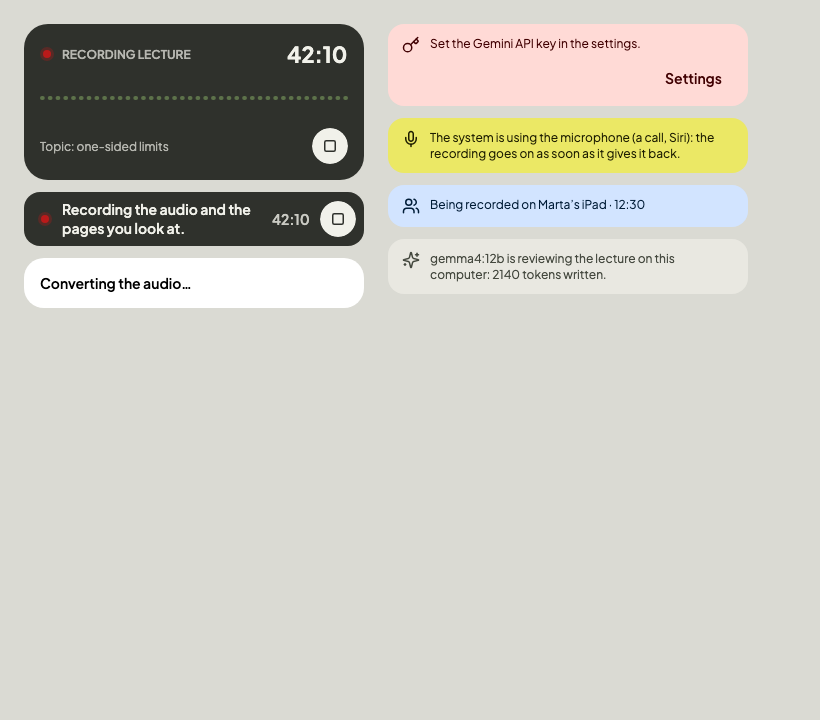
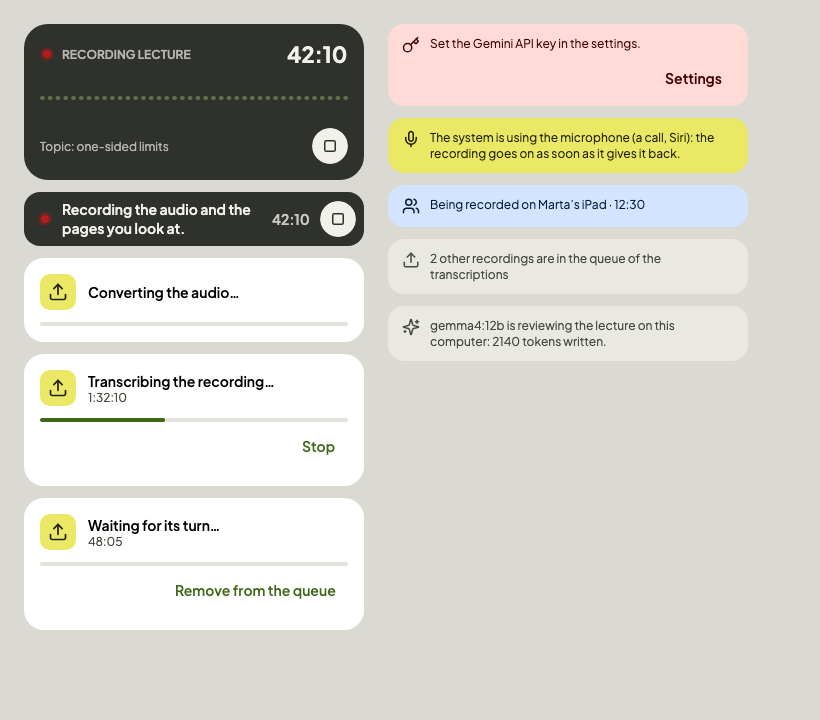
feat(lecture): the panel takes imports and recordings while lectures are transcribed

Changed region(s): [[0.0305, 0.3667, 0.4573, 0.8861], [0.4878, 0.4278, 0.8232, 0.4889], [0.4878, 0.3361, 0.8232, 0.3972]]

diff --git a/drawview-lecture-ui/src/commonMain/kotlin/io/github/valerioisufi/drawview/lecture/ui/LecturePanel.kt b/drawview-lecture-ui/src/commonMain/kotlin/io/github/valerioisufi/drawview/lecture/ui/LecturePanel.kt
@@ -235,20 +235,21 @@ private fun IdleSection(assistant: LectureAssistant, documentId: String, onStart
         LectureNotice(DrawViewIcons.Mic, stringResource(Res.string.lecture_unsupported), NoticeTone.Neutral)
         return
     }
-    val canStart = !assistant.isBusy
+    // A recording at a time; an import is always taken, and waits its turn to be transcribed
+    val canRecord = assistant.canRecord
     Text(
         stringResource(if (assistant.canGenerate) Res.string.lecture_idle_description else Res.string.lecture_record_only_description),
         style = MaterialTheme.typography.bodyMedium,
         color = MaterialTheme.colorScheme.onSurfaceVariant
     )
     if (assistant.canGenerate) PrivacyNote(privacyNote(assistant.settingsStore.settings))
-    Button(onClick = onStart, enabled = canStart, modifier = Modifier.fillMaxWidth().height(56.dp)) {
+    Button(onClick = onStart, enabled = canRecord, modifier = Modifier.fillMaxWidth().height(56.dp)) {
         Icon(DrawViewIcons.Mic, contentDescription = null, modifier = Modifier.size(22.dp))
         Spacer(Modifier.width(10.dp))
         Text(stringResource(Res.string.lecture_action_record), style = MaterialTheme.typography.titleMedium)
     }
     if (assistant.canImportAndExport) {
-        OutlineButton(onClick = onImport, enabled = canStart, modifier = Modifier.fillMaxWidth().height(48.dp)) {
+        OutlineButton(onClick = onImport, modifier = Modifier.fillMaxWidth().height(48.dp)) {
             Icon(DrawViewIcons.Upload, contentDescription = null, modifier = Modifier.size(18.dp))
             Spacer(Modifier.width(8.dp))
             Text(stringResource(Res.string.lecture_action_import))
@@ -593,7 +594,7 @@ private fun RecordingSection(
     onStart: () -> Unit,
     onImport: () -> Unit
 ) {
-    val canStart = !assistant.isBusy
+    val canRecord = assistant.canRecord
     when {
         // Being recorded, or transcribed, on another device
         lecture.status != LectureStatus.FINISHED && recorder?.lecture !== lecture && !assistant.isTranscribing(lecture) -> {
@@ -618,7 +619,7 @@ private fun RecordingSection(
             }
         }
 
-        lecture.status == LectureStatus.IMPORTING -> ImportCard(lecture)
+        lecture.status == LectureStatus.IMPORTING -> ImportCard(assistant, lecture)
 
         lecture.status == LectureStatus.RECORDING && recorder != null -> {
             val settings = assistant.settingsStore.settings
@@ -654,13 +655,13 @@ private fun RecordingSection(
         else -> {
             if (lecture.recordedElsewhere) AudioElsewhere(assistant, lecture)
             Row(horizontalArrangement = Arrangement.spacedBy(8.dp)) {
-                OutlineButton(onClick = onStart, enabled = canStart, modifier = Modifier.weight(1f), contentPadding = PaddingValues(horizontal = 12.dp)) {
+                OutlineButton(onClick = onStart, enabled = canRecord, modifier = Modifier.weight(1f), contentPadding = PaddingValues(horizontal = 12.dp)) {
                     Icon(DrawViewIcons.Mic, contentDescription = null, modifier = Modifier.size(18.dp))
                     Spacer(Modifier.width(8.dp))
                     Text(stringResource(Res.string.lecture_action_new_recording), maxLines = 1, overflow = TextOverflow.Ellipsis)
                 }
                 if (assistant.canImportAndExport) {
-                    OutlineButton(onClick = onImport, enabled = canStart, modifier = Modifier.weight(1f), contentPadding = PaddingValues(horizontal = 12.dp)) {
+                    OutlineButton(onClick = onImport, modifier = Modifier.weight(1f), contentPadding = PaddingValues(horizontal = 12.dp)) {
                         Icon(DrawViewIcons.Upload, contentDescription = null, modifier = Modifier.size(18.dp))
                         Spacer(Modifier.width(8.dp))
                         Text(stringResource(Res.string.lecture_action_import_short), maxLines = 1, overflow = TextOverflow.Ellipsis)
@@ -672,35 +673,64 @@ private fun RecordingSection(
     }
 }
 
-/** A recording imported from elsewhere: converted, transcribed, reviewed, with its progress. */
+/**
+ * A recording being imported or transcribed here: converted, waiting its turn, transcribed, reviewed,
+ * with its progress. While it waits or is transcribed it can be taken out of the queue.
+ */
 @Composable
-private fun ImportCard(lecture: Lecture) {
+private fun ImportCard(assistant: LectureAssistant, lecture: Lecture) {
+    val step = lecture.importStep
+    val waiting = step == ImportStep.WAITING
+    ImportCard(
+        title = stringResource(
+            when (step) {
+                ImportStep.TRANSCRIBING -> Res.string.lecture_import_transcribing
+                ImportStep.REVIEWING -> Res.string.lecture_status_finalizing
+                // For the recording going on here, or for the transcriptions asked before it
+                ImportStep.WAITING -> if (assistant.canRecord) Res.string.lecture_import_waiting else Res.string.lecture_import_waiting_recording
+                else -> Res.string.lecture_import_converting
+            }
+        ),
+        duration = lecture.elapsedMs.takeIf { it > 0 }?.let { formatLectureTime(it) },
+        // Waiting its turn: nothing moves, what was transcribed before a pause stays
+        progress = if (waiting) lecture.importProgress.coerceAtLeast(0f) else lecture.importProgress,
+        remove = when {
+            !assistant.isTranscribing(lecture) -> null
+            waiting -> stringResource(Res.string.lecture_import_remove)
+            step == ImportStep.TRANSCRIBING -> stringResource(Res.string.lecture_action_stop)
+            else -> null
+        },
+        onRemove = { assistant.cancelTranscription(lecture) }
+    )
+}
+
+/**
+ * The card of a recording being imported or transcribed: what is happening ([title]), how long the
+ * recording is ([duration]), the [progress] of the step (0..1, negative when unknown), and the
+ * action taking it out of the queue ([remove], `null`: none).
+ */
+@Composable
+internal fun ImportCard(title: String, duration: String?, progress: Float, remove: String? = null, onRemove: () -> Unit = {}) {
     PanelCard {
         Row(verticalAlignment = Alignment.CenterVertically, horizontalArrangement = Arrangement.spacedBy(12.dp)) {
             IconTile(DrawViewIcons.Upload, MaterialTheme.colorScheme.secondaryContainer, MaterialTheme.colorScheme.onSecondaryContainer)
             Column(modifier = Modifier.weight(1f)) {
-                Text(
-                    stringResource(
-                        when (lecture.importStep) {
-                            ImportStep.TRANSCRIBING -> Res.string.lecture_import_transcribing
-                            ImportStep.REVIEWING -> Res.string.lecture_status_finalizing
-                            ImportStep.WAITING -> Res.string.lecture_import_waiting
-                            else -> Res.string.lecture_import_converting
-                        }
-                    ),
-                    style = MaterialTheme.typography.titleSmall
-                )
-                if (lecture.elapsedMs > 0) {
-                    Text(formatLectureTime(lecture.elapsedMs), style = MaterialTheme.typography.bodySmall, color = MaterialTheme.colorScheme.onSurfaceVariant)
+                Text(title, style = MaterialTheme.typography.titleSmall)
+                if (duration != null) {
+                    Text(duration, style = MaterialTheme.typography.bodySmall, color = MaterialTheme.colorScheme.onSurfaceVariant)
                 }
             }
         }
         Spacer(Modifier.height(12.dp))
-        // Waiting its turn: nothing moves
-        val progress = if (lecture.importStep == ImportStep.WAITING) 0f else lecture.importProgress
         val track = MaterialTheme.colorScheme.surfaceContainerHighest
         if (progress < 0f) LinearProgressIndicator(modifier = Modifier.fillMaxWidth(), trackColor = track, gapSize = 0.dp)
         else LinearProgressIndicator(progress = { progress }, modifier = Modifier.fillMaxWidth(), trackColor = track, gapSize = 0.dp, drawStopIndicator = {})
+        // Under the bar: beside the title it would leave the title no room in a narrow panel
+        if (remove != null) {
+            Row(modifier = Modifier.fillMaxWidth(), horizontalArrangement = Arrangement.End) {
+                TextButton(onClick = onRemove) { Text(remove, maxLines = 1) }
+            }
+        }
     }
 }
 
@@ -719,12 +749,16 @@ private fun Progress(text: String) {
  */
 @Composable
 private fun Notices(assistant: LectureAssistant, lecture: Lecture?, recorder: LectureRecorder?, onOpenSettings: () -> Unit) {
-    // One lecture at a time: another document may be recording or importing
-    val recordingElsewhere = (assistant.activeRecorder?.takeIf { it !== recorder }?.lecture ?: assistant.importing)
-        ?.takeIf { it !== lecture }
+    // One recording at a time: another document may be recording
+    val recordingElsewhere = assistant.activeRecorder?.takeIf { it !== recorder }?.lecture?.takeIf { it !== lecture }
     val settings = stringResource(Res.string.lecture_action_settings)
     recordingElsewhere?.let {
         LectureNotice(DrawViewIcons.Mic, stringResource(Res.string.lecture_recording_elsewhere, it.documentTitle), NoticeTone.Neutral)
+    }
+    // The other recordings being transcribed here, or waiting to be: nothing waits for them but the next one
+    val transcribedBeside = assistant.transcribing.count { it !== lecture }
+    if (transcribedBeside > 0) {
+        LectureNotice(DrawViewIcons.Upload, pluralStringResource(Res.plurals.lecture_transcriptions_beside, transcribedBeside, transcribedBeside), NoticeTone.Neutral)
     }
     assistant.startError?.let {
         LectureNotice(DrawViewIcons.TriangleAlert, stringResource(Res.string.lecture_problem_start, it), NoticeTone.Error)

diff --git a/drawview-lecture-ui/src/jvmTest/kotlin/io/github/valerioisufi/drawview/lecture/ui/LecturePanelQueueTest.kt b/drawview-lecture-ui/src/jvmTest/kotlin/io/github/valerioisufi/drawview/lecture/ui/LecturePanelQueueTest.kt
@@ -1,0 +1,159 @@
+package io.github.valerioisufi.drawview.lecture.ui
+
+import androidx.compose.foundation.layout.Box
+import androidx.compose.foundation.layout.fillMaxSize
+import androidx.compose.runtime.getValue
+import androidx.compose.runtime.key
+import androidx.compose.runtime.mutableStateOf
+import androidx.compose.runtime.setValue
+import androidx.compose.ui.Modifier
+import androidx.compose.ui.test.ExperimentalTestApi
+import androidx.compose.ui.test.assertIsEnabled
+import androidx.compose.ui.test.assertIsNotEnabled
+import androidx.compose.ui.test.onNodeWithText
+import androidx.compose.ui.test.performClick
+import androidx.compose.ui.test.runDesktopComposeUiTest
+import io.github.valerioisufi.drawview.canvas.controller.DrawViewController
+import io.github.valerioisufi.drawview.lecture.AssistantSettingsStore
+import io.github.valerioisufi.drawview.lecture.ImportStep
+import io.github.valerioisufi.drawview.lecture.LectureAssistant
+import io.github.valerioisufi.drawview.lecture.LectureLibrary
+import io.github.valerioisufi.drawview.lecture.LectureStatus
+import io.github.valerioisufi.drawview.lecture.TranscriptSegment
+import io.github.valerioisufi.drawview.lecture.platform.ChosenFile
+import io.github.valerioisufi.drawview.lecture.testing.FakeMicrophone
+import io.github.valerioisufi.drawview.lecture.testing.FakeNotebook
+import io.github.valerioisufi.drawview.lecture.testing.MemorySecrets
+import io.github.valerioisufi.drawview.lecture.transcription.SpeechHints
+import io.github.valerioisufi.drawview.lecture.transcription.Transcriber
+import io.github.valerioisufi.drawview.lecture.transcription.Transcription
+import io.github.valerioisufi.drawview.model.DrawDocument
+import io.github.valerioisufi.drawview.ui.theme.DrawViewTheme
+import java.io.File
+import java.nio.ByteBuffer
+import java.nio.ByteOrder
+import java.nio.file.Files
+import java.util.Locale
+import kotlin.random.Random
+import kotlin.test.AfterTest
+import kotlin.test.BeforeTest
+import kotlin.test.Test
+import kotlin.test.assertEquals
+import kotlinx.coroutines.CompletableDeferred
+import kotlinx.coroutines.CoroutineScope
+import kotlinx.coroutines.Dispatchers
+
+/**
+ * The panel while recordings are transcribed (docs/transcription-queue.md): an import is always
+ * taken, a recording too unless one is going on, and what waits or is transcribed says so and can be
+ * taken out of the queue.
+ */
+@OptIn(ExperimentalTestApi::class)
+class LecturePanelQueueTest {
+    private val root: File = Files.createTempDirectory("lecture-queue-panel").toFile()
+
+    @BeforeTest
+    fun setUp() {
+        Locale.setDefault(Locale.US)
+    }
+
+    @AfterTest
+    fun cleanUp() {
+        root.deleteRecursively()
+    }
+
+    /** Every transcription waits for this. */
+    private val letGo = CompletableDeferred<Unit>()
+
+    private val assistant = LectureAssistant(
+        settingsStore = AssistantSettingsStore(File(root, "settings.json").absolutePath, MemorySecrets()).apply {
+            // The review on request: no model is asked anything
+            update(settings.copy(reviewAtTheEnd = false))
+        },
+        captureFactory = { FakeMicrophone() },
+        audioOutput = null,
+        library = LectureLibrary(File(root, "lectures").absolutePath),
+        stateContext = Dispatchers.Unconfined,
+        whisper = {
+            object : Transcriber {
+                override suspend fun transcribe(wav: ByteArray, hints: SpeechHints): Transcription {
+                    letGo.await()
+                    return Transcription(listOf(TranscriptSegment(0, 500, "Limits and continuity")))
+                }
+            }
+        }
+    )
+
+    /** A WAV file of three seconds of words: bursts of noise with pauses between them. */
+    private fun recording(name: String): ChosenFile {
+        val rate = 16_000
+        val frames = rate * 3
+        val random = Random(name.hashCode())
+        val data = ByteBuffer.allocate(frames * 2).order(ByteOrder.LITTLE_ENDIAN)
+        for (f in 0 until frames) {
+            val loud = (f / (rate / 5)) % 3 != 2
+            data.putShort((random.nextInt(-12_000, 12_000) * if (loud) 1.0 else 0.01).toInt().toShort())
+        }
+        val header = ByteBuffer.allocate(44).order(ByteOrder.LITTLE_ENDIAN).apply {
+            put("RIFF".toByteArray()).putInt(36 + data.capacity()).put("WAVE".toByteArray())
+            put("fmt ".toByteArray()).putInt(16).putShort(1).putShort(1)
+            putInt(rate).putInt(rate * 2).putShort(2).putShort(16)
+            put("data".toByteArray()).putInt(data.capacity())
+        }
+        val file = File(root, name).apply { writeBytes(header.array() + data.array()) }
+        return ChosenFile(file.absolutePath, file.name, lastModified = null)
+    }
+
+    @Test
+    fun thePanelTakesImportsAndRecordingsWhileALectureIsTranscribed() {
+        val controller = DrawViewController(document = DrawDocument(), coroutineScope = CoroutineScope(Dispatchers.Unconfined))
+        var shown by mutableStateOf("doc")
+        runDesktopComposeUiTest(width = 428, height = 800) {
+            setContent {
+                DrawViewTheme(darkTheme = false, dynamicColor = false) {
+                    Box(modifier = Modifier.fillMaxSize()) {
+                        key(shown) { PanelContent(assistant, shown, controller, LecturePanelState()) }
+                    }
+                }
+            }
+            // A recording of another notebook is being transcribed
+            assistant.importRecording("physics", "Physics", FakeNotebook(), { emptyList() }, recording("physics.wav"))
+            val physics = assistant.transcribing.single()
+            waitUntil(timeoutMillis = 20_000) { physics.importStep == ImportStep.TRANSCRIBING }
+            waitForIdle()
+            onNodeWithText("Record the lecture").assertIsEnabled()
+            onNodeWithText("Import a recording").assertIsEnabled()
+            onNodeWithText("1 other recording is in the queue of the transcriptions").assertExists()
+
+            // One imported here waits its turn, and says so
+            assistant.importRecording("doc", "Calculus", FakeNotebook(), { emptyList() }, recording("calculus.wav"))
+            val calculus = assistant.transcribing.last()
+            waitUntil(timeoutMillis = 20_000) { calculus.importStep == ImportStep.WAITING }
+            waitForIdle()
+            onNodeWithText("Waiting for its turn…").assertExists()
+            onNodeWithText("Remove from the queue").performClick()
+            waitUntil(timeoutMillis = 20_000) { calculus.status == LectureStatus.FINISHED && assistant.transcribing == listOf(physics) }
+            waitForIdle()
+            onNodeWithText("New recording").assertIsEnabled()
+            onNodeWithText("Import").assertIsEnabled()
+
+            // A recording going on in another notebook: no other recording, an import still
+            check(assistant.start("chemistry", "Chemistry", FakeNotebook()))
+            waitForIdle()
+            onNodeWithText("New recording").assertIsNotEnabled()
+            onNodeWithText("Import").assertIsEnabled()
+            onNodeWithText("A lecture of «Chemistry» is being recorded: one recording at a time.").assertExists()
+
+            // The one being transcribed is stopped from its panel
+            shown = "physics"
+            waitForIdle()
+            onNodeWithText("Transcribing the recording…").assertExists()
+            onNodeWithText("Stop").performClick()
+            waitUntil(timeoutMillis = 20_000) { physics.status == LectureStatus.FINISHED && assistant.transcribing.isEmpty() }
+            assertEquals(0, physics.transcript.size)
+            letGo.complete(Unit)
+            assistant.recorder?.stop()
+            waitUntil(timeoutMillis = 20_000) { assistant.canRecord }
+        }
+    }
+}

diff --git a/drawview-lecture-ui/src/jvmTest/kotlin/io/github/valerioisufi/drawview/lecture/ui/LecturePanelScreenshotTest.kt b/drawview-lecture-ui/src/jvmTest/kotlin/io/github/valerioisufi/drawview/lecture/ui/LecturePanelScreenshotTest.kt
@@ -130,14 +130,15 @@ class LecturePanelScreenshotTest {
                         Column(modifier = Modifier.width(340.dp), verticalArrangement = Arrangement.spacedBy(12.dp)) {
                             RecordingCard("42:10", level = 0.6f, status = "Topic: one-sided limits", onStop = {})
                             RecordingCard("42:10", level = 0f, status = "Recording the audio and the pages you look at.", onStop = {}, compact = true)
-                            PanelCard {
-                                Text("Converting the audio…", style = MaterialTheme.typography.titleSmall)
-                            }
+                            ImportCard("Converting the audio…", duration = null, progress = -1f)
+                            ImportCard("Transcribing the recording…", duration = "1:32:10", progress = 0.4f, remove = "Stop")
+                            ImportCard("Waiting for its turn…", duration = "48:05", progress = 0f, remove = "Remove from the queue")
                         }
                         Column(modifier = Modifier.width(360.dp), verticalArrangement = Arrangement.spacedBy(12.dp)) {
                             LectureNotice(DrawViewIcons.Key, "Set the Gemini API key in the settings.", NoticeTone.Error, action = "Settings" to {})
                             LectureNotice(DrawViewIcons.Mic, "The system is using the microphone (a call, Siri): the recording goes on as soon as it gives it back.", NoticeTone.Warning)
                             LectureNotice(DrawViewIcons.Users, "Being recorded on Marta’s iPad · 12:30", NoticeTone.Info)
+                            LectureNotice(DrawViewIcons.Upload, "2 other recordings are in the queue of the transcriptions", NoticeTone.Neutral)
                             LectureNotice(DrawViewIcons.Sparkles, "gemma4:12b is reviewing the lecture on this computer: 2140 tokens written.", NoticeTone.Neutral)
                         }
                     }

diff --git a/docs/transcription-queue.md b/docs/transcription-queue.md
@@ -136,7 +136,7 @@ One commit per phase on `feat/transcription-queue`, with the checks of `CLAUDE.m
 | 0 | Measure: a bench that pans and draws in a real window while whisper.cpp transcribes ten minutes of audio; the table above filled in; the target of requirement 4 | Waiting for a model (see below) |
 | 1 | `TranscriptionQueue`, `ImportStep.WAITING`, `importRecording` converting at once, `generate` and `retranscribe` enqueued, `transcribing`, `isTranscribing`, `cancelTranscription`, with the ABI of `drawview-lecture` re-recorded; the card of a lecture waiting says so. A recording here still refuses and is refused, until phase 2 pauses the queue. Tests (`TranscriptionQueueTest`): two imports one after the other, imports during a new transcription with the order kept, a file that is not audio leaving the queue as it was, a lecture taken out of the queue waiting and running, the generation lock taken when the job starts | Done |
 | 2 | Pausing: `TranscriptionGate`, checked by `RecordingTranscriber` between two pieces and held by a recording here; `canRecord`, with the ABI of `drawview-lecture` re-recorded; an import, a first transcription and a new one are taken during a recording too. Tests (`TranscriptionQueueTest`): a recording started in the middle of a transcription (the piece in flight delivered, the model closed, a segment for every piece, it goes on after), an import during a recording waiting for its end, a recording that cannot start leaving the transcriptions going | Done |
-| 3 | The panel: *New recording* and *Import* enabled by the new rules, the card of a lecture waiting with *Remove from the queue*, the notices. Tests: screenshots (`verifyRoborazziJvm`), the desktop application on a scratch directory | Not started |
+| 3 | The panel: *Record* enabled by `canRecord` and *Import* always; the card of a lecture waiting (for its turn, or for the recording to end) with *Remove from the queue*, of one being transcribed with *Stop*; the notice of a recording elsewhere, and of the other recordings in the queue. Tests: `LecturePanelQueueTest` (the buttons while a lecture is transcribed and while one is recorded, a lecture taken out waiting and stopped running, from its card), the screenshot `lecture-recording-notices` re-recorded (`verifyRoborazziJvm`). The desktop application on a scratch directory was not run: it needs a speech model (phase 0) | Done |
 | 4 | The window: what phase 0 chose. Tests: the bench of phase 0 run again | Not started |
 
 ### What phase 0 needs
